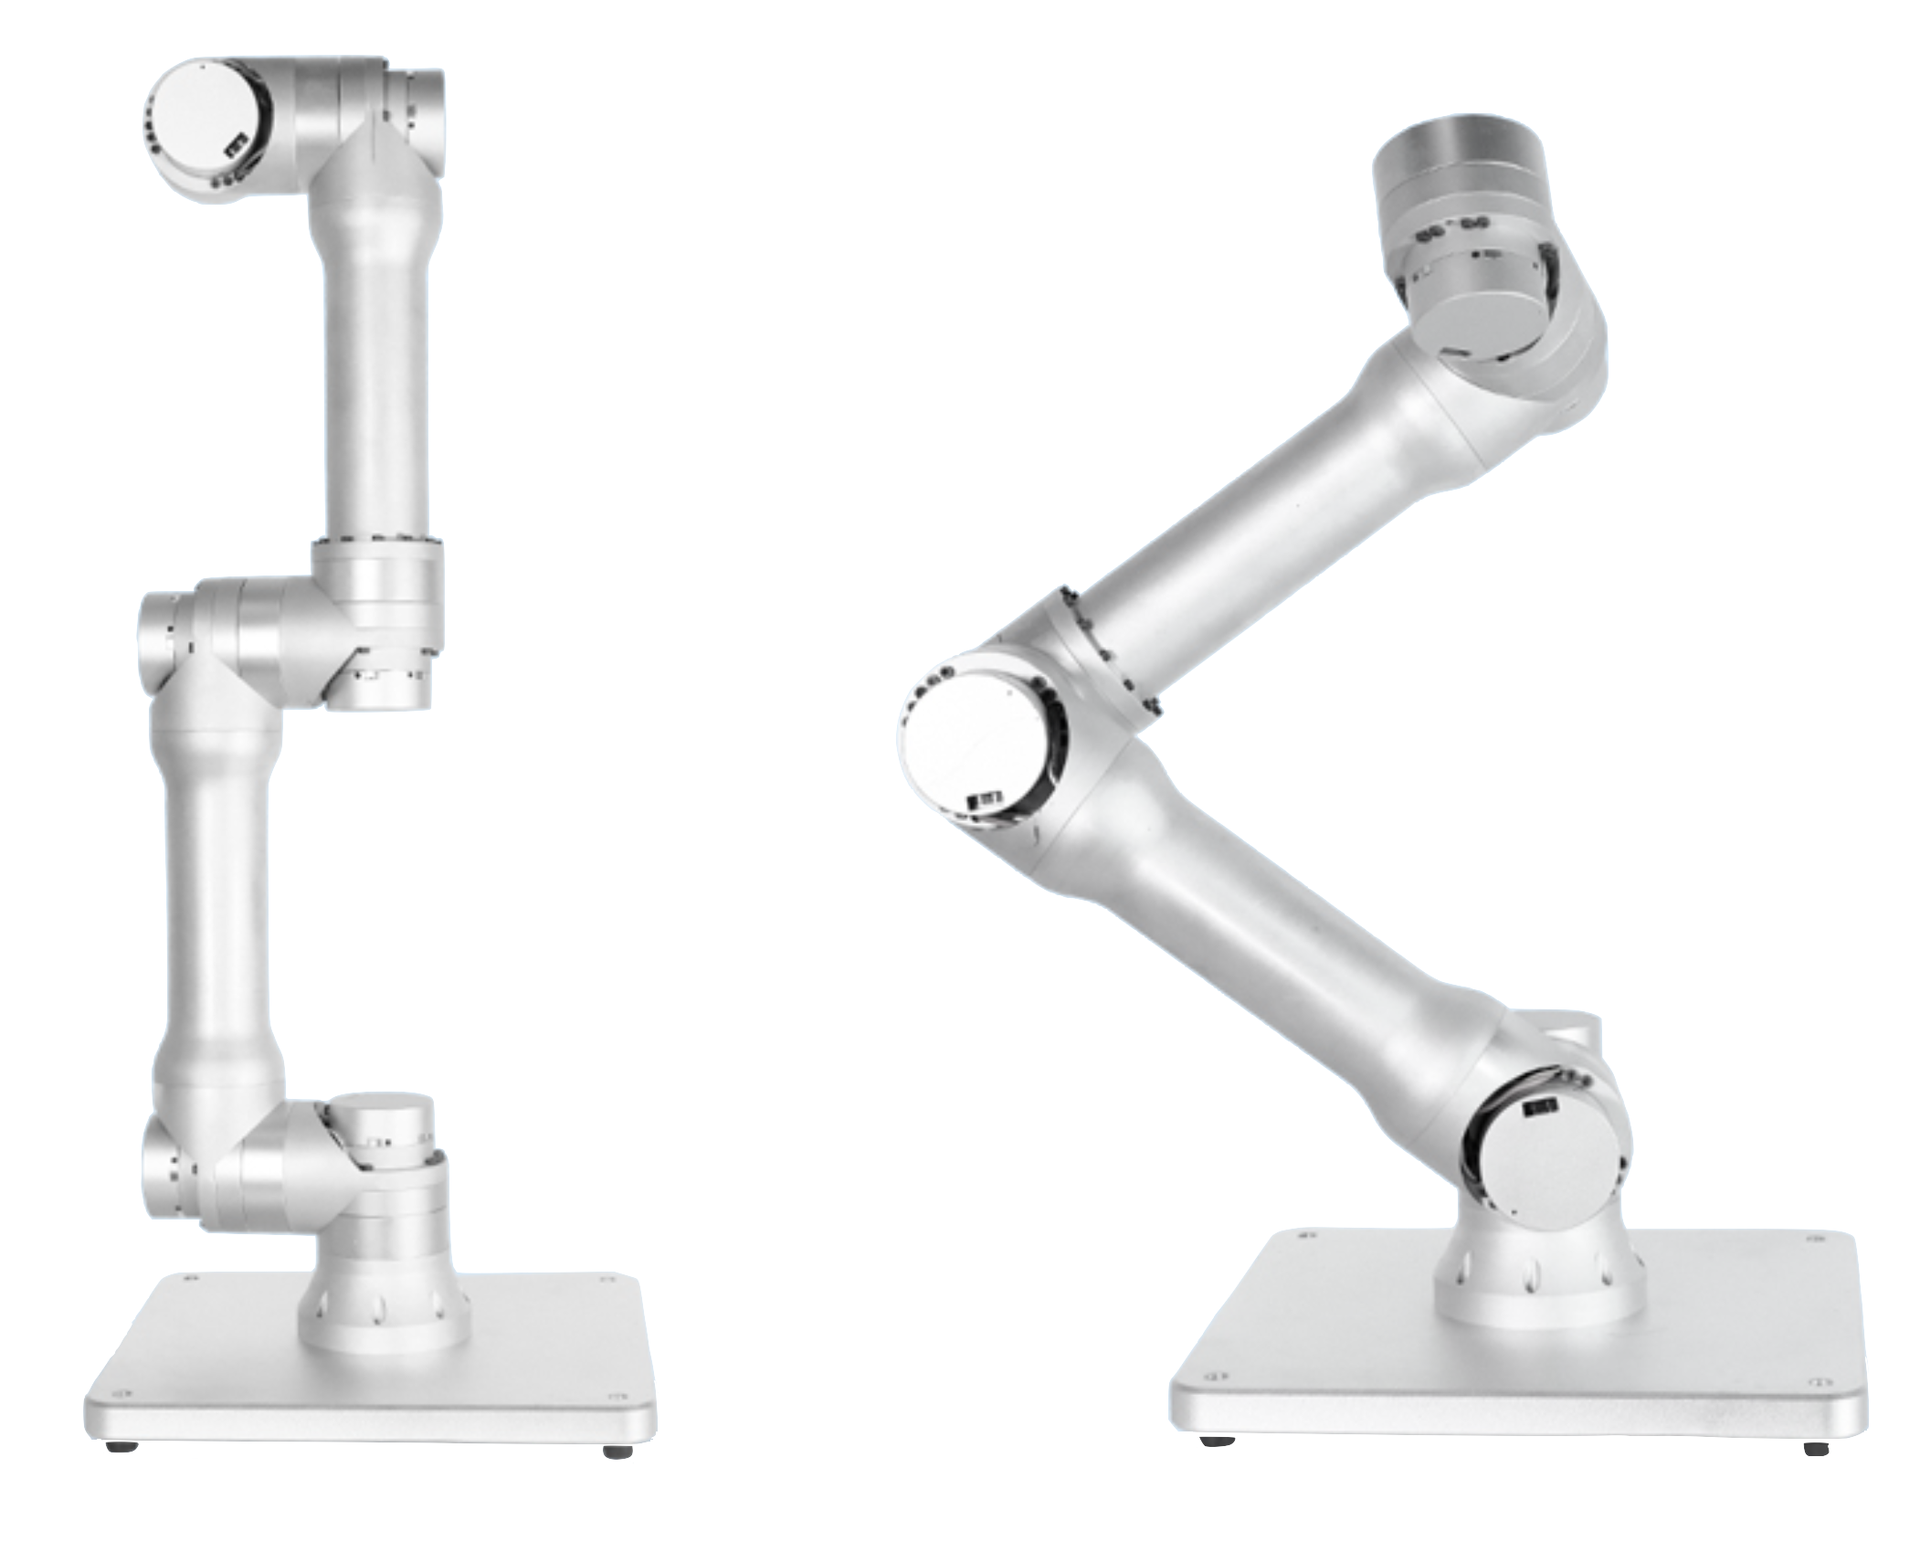
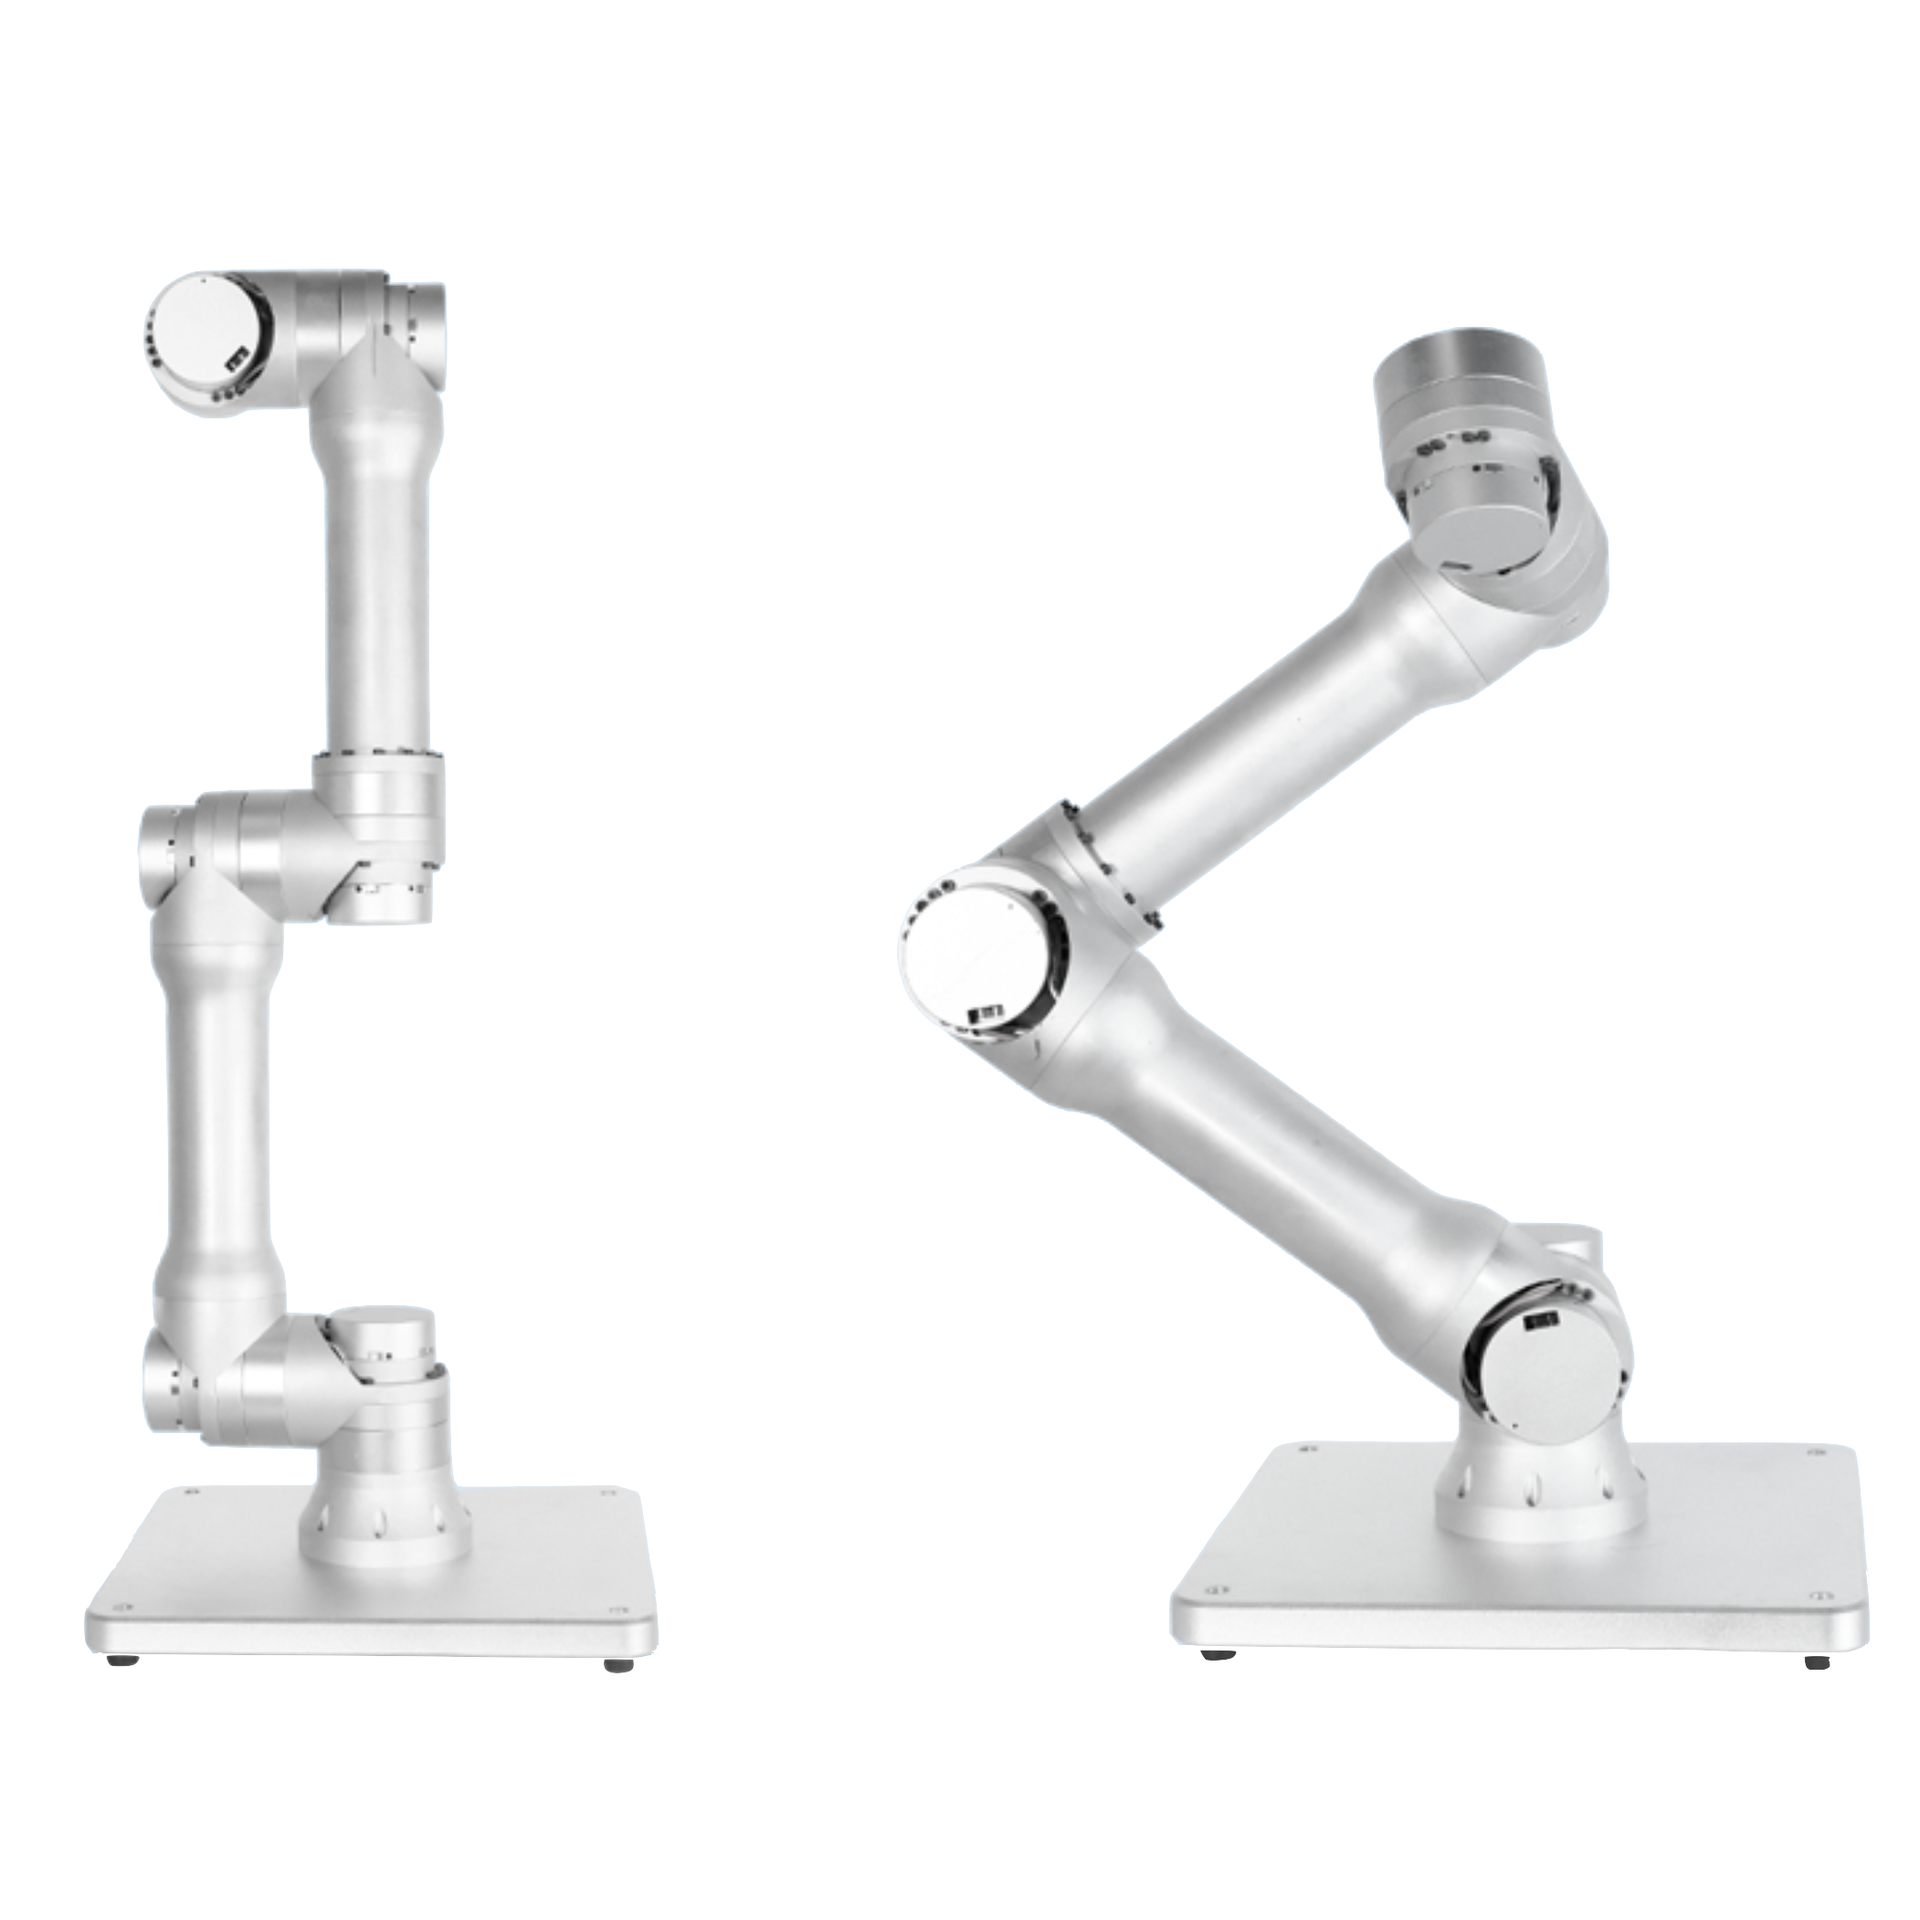
lined evertyhing up

diff --git a/products.html b/products.html
@@ -147,7 +147,7 @@
           </div>
 
           <div class="col-lg-4 col-md-6 portfolio-item filter-exo">
-            <a href="actuator_specs.html?fileName=hand_exo_home.json"><img src="assets/img/products/hand_exo_home.jpg" class="img-fluid" title="More Details"></a>
+            <a href="actuator_specs.html?fileName=hand_exo_home.json"><img src="assets/img/products/hand_exo_home.png" class="img-fluid" title="More Details"></a>
             <div class="portfolio-info">
               <h4><a href="actuator_specs.html?fileName=hand_exo_home.json">Pneumatic Hand Exoskeleton (Home)</a></h4>
               <p>

diff --git a/products_exoskeletons.html b/products_exoskeletons.html
@@ -131,7 +131,7 @@
 
 
           <div class="col-lg-4 col-md-6 portfolio-item filter-exo">
-            <a href="actuator_specs.html?fileName=hand_exo_home.json"><img src="assets/img/products/hand_exo_home.jpg" class="img-fluid" title="More Details"></a>
+            <a href="actuator_specs.html?fileName=hand_exo_home.json"><img src="assets/img/products/hand_exo_home.png" class="img-fluid" title="More Details"></a>
             <div class="portfolio-info">
               <h4><a href="actuator_specs.html?fileName=hand_exo_home.json">Pneumatic Hand Exoskeleton (Home)</a></h4>
               <p>
